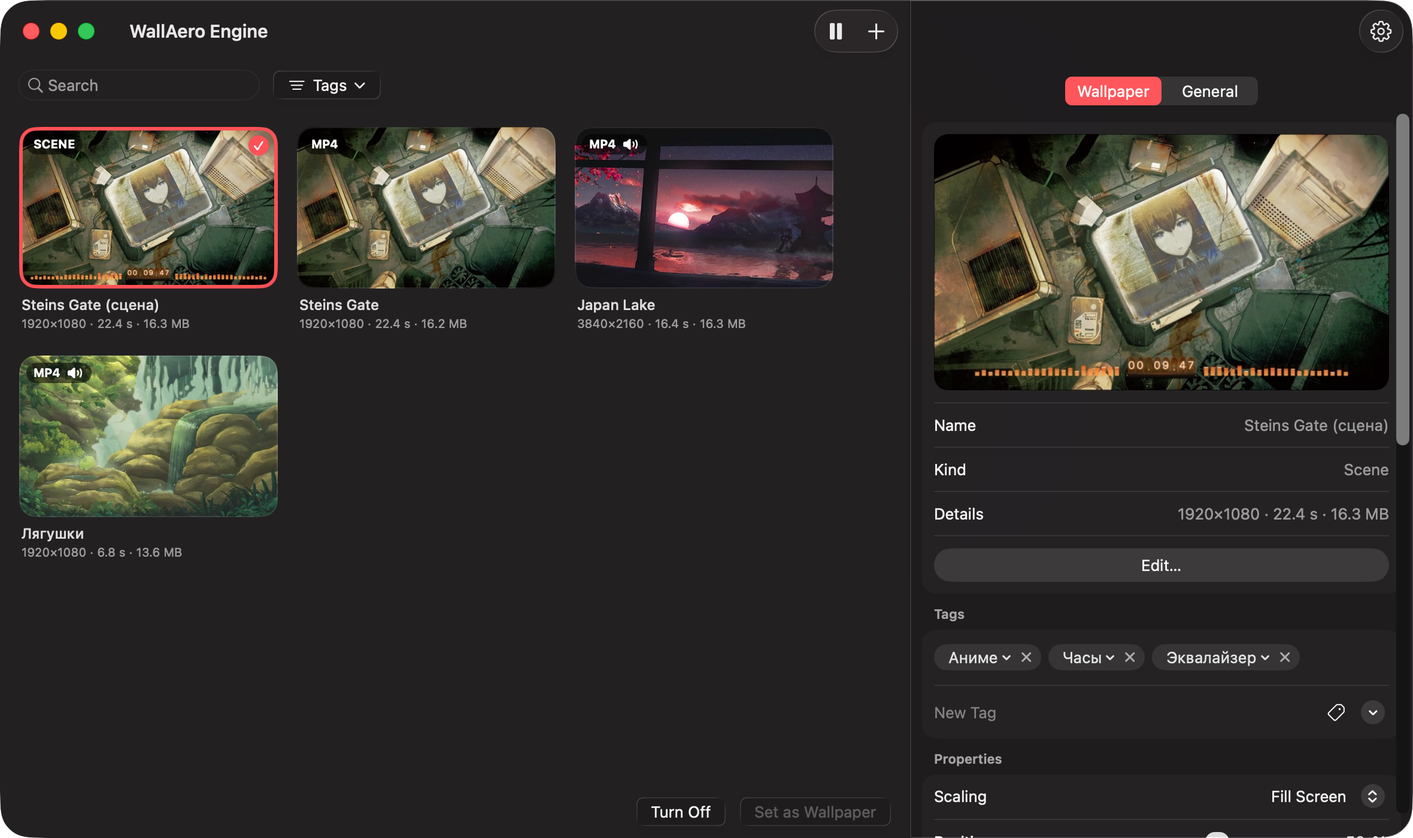
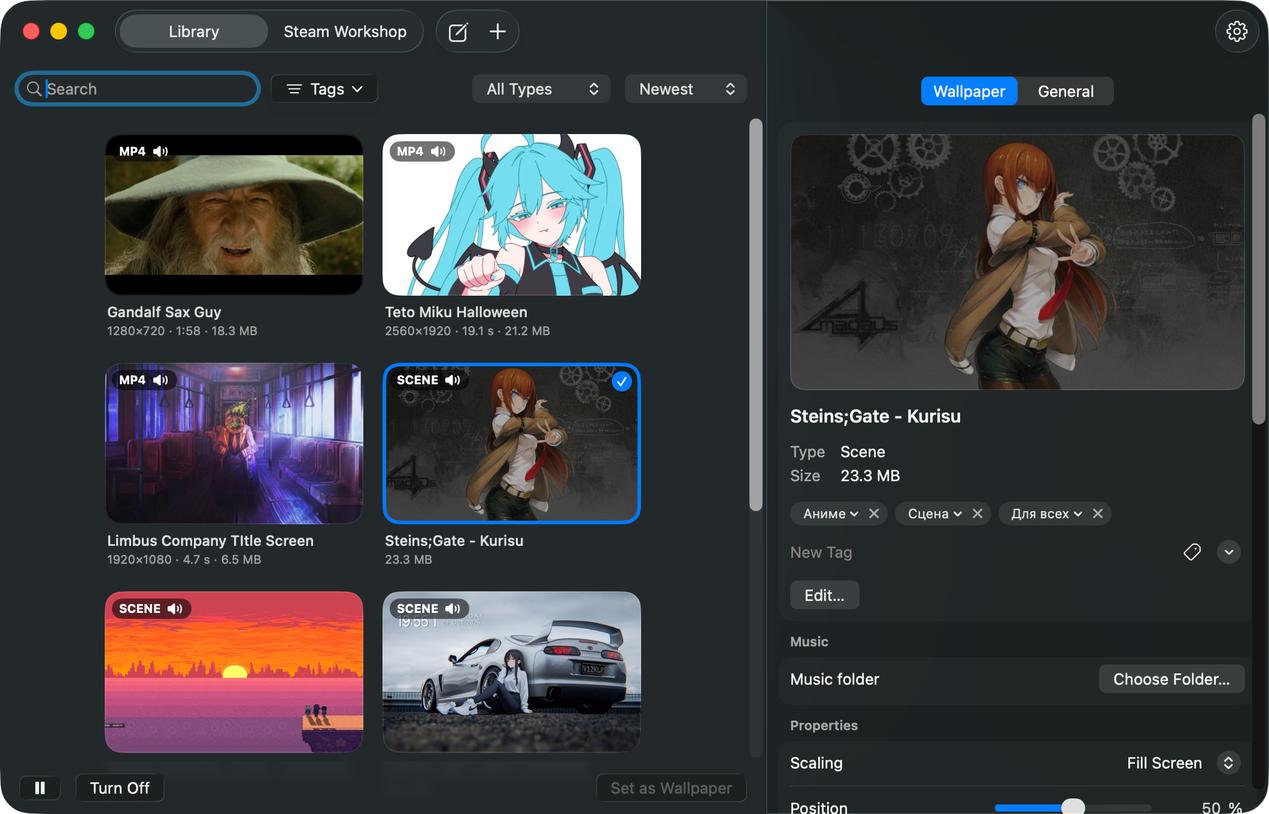
README shows the interface as macOS 26 draws it
- Screenshots of the library, the settings and the scene editor taken anew on macOS 26, in English and Russian; a new one of the Steam Workshop
- The window as it is now: Library and Steam Workshop at the top, the type and order filters, the bar for the desktop at the bottom, the wallpaper's settings in their new order
- The scene editor laid out as Blender is: its window, the Layout, Animation and Scripting tabs, the modes and tools, Camera View and Free View, the timeline
- The look follows the macOS it runs on, Liquid Glass on macOS 26
- scripts/screenshots.sh takes the Workshop's picture too

diff --git a/README.ru.md b/README.ru.md
@@ -56,6 +56,7 @@ xattr -dr com.apple.quarantine "/Applications/WallAero Engine.app"
 - **Поиск и теги:** находите обои по названию, давайте им свои теги, раскладывайте теги по категориям и отмечайте, какие обои показывать.
 - **Настройки у каждых обоев:** масштаб (заполнить / вписать / растянуть), какая часть кадра остаётся видна, когда при заполнении он обрезается, скорость и музыка. У сцены к ним добавляются настройки, которые вынес её автор.
 - **Настройки приложения:** звук и громкость, запуск при входе в систему, обои на экране блокировки (кадр, который был на экране в момент блокировки; в Mission Control виден неподвижный кадр обоев).
+- **Вид вашей macOS:** приложение собрано из системных элементов управления, поэтому в macOS 26 Tahoe оно выглядит как приложения Apple — с Liquid Glass, а в прежних версиях — так, как выглядят они там. Цвет акцента и светлое или тёмное оформление меняются вместе с системой. Скриншоты здесь сняты в macOS 26.
 - **Язык интерфейса** — русский или английский, выбирается по языку системы. Для остальных языков включается английский. Только для WallAero Engine язык можно сменить в «Системные настройки» → «Основные» → «Язык и регион» → «Приложения».
 
 ## Сборка из исходников
@@ -81,11 +82,19 @@ scripts/screenshots.sh        # переснять скриншоты для REA
 2. Перетащите в окно файлы или папки либо нажмите «+» на панели инструментов.
 3. Двойной щелчок по обоям (или «Установить как обои») — и они на рабочем столе.
 
-Над обоями находятся поле поиска и кнопка «Теги». Поиск идёт по названиям и тегам; ⌘F ставит курсор в поле. Кнопка «Теги» открывает список тегов библиотеки с флажками, под названиями их категорий. Отметьте теги одной категории — останутся обои, у которых есть любой из них; отметьте теги из нескольких категорий — обоям нужен хотя бы один из каждой.
+Вверху окна «Библиотека» и «Мастерская Steam» переключают между вашими обоями и мастерской; рядом кнопка с карандашом создаёт новую сцену, а «+» добавляет файлы. Нижняя панель — про рабочий стол: пауза, «Выключить» и «Установить как обои», а если дисплеев несколько — ещё и выбор дисплея, к которому они относятся.
+
+Над обоями находятся поле поиска, кнопка «Теги», выбор типа («Все типы», «Сцены», «Видео», «Веб-страницы» или «Картинки») и порядка («Новые», «Старые» или «По названию»). Поиск идёт по названиям и тегам; ⌘F ставит курсор в поле. Кнопка «Теги» открывает список тегов библиотеки с флажками, под названиями их категорий. Отметьте теги одной категории — останутся обои, у которых есть любой из них; отметьте теги из нескольких категорий — обоям нужен хотя бы один из каждой.
 
 Теги обоям задаются в их настройках, в разделе «Теги»: введите тег и нажмите Return или выберите один из тех, что уже есть у других обоев. Нажмите на тег там же, чтобы отнести его к категории или создать новую; категория закрепляется за тегом на всех обоях. Теги есть и в контекстном меню обоев.
 
-Настройки находятся сбоку в том же окне; кнопка с шестерёнкой скрывает и показывает их, а ⌘, открывает настройки приложения. В них две вкладки. «Обои» — про обои, выбранные в библиотеке: превью, кнопка, которая открывает их в редакторе, масштаб, положение кадра, скорость и [переменные](#сцены) сцены. «Общие» — настройки самого приложения. Остальное доступно из иконки в строке меню. При закрытом окне приложение не занимает место в Dock.
+Настройки находятся сбоку в том же окне; кнопка с шестерёнкой скрывает и показывает их, а ⌘, открывает настройки приложения. В них две вкладки. «Обои» — про обои, выбранные в библиотеке: большое живое превью, название, тип и размер, теги, кнопка «Редактировать…», которая открывает их в редакторе, [музыка](#музыка), масштаб, положение кадра, скорость и [настройки](#сцены) сцены. «Общие» — настройки самого приложения: воспроизведение, энергосбережение, экран блокировки и [курсор](#курсоры). Остальное доступно из иконки в строке меню. При закрытом окне приложение не занимает место в Dock.
+
+<p align="center">
+  <img src="docs/screenshots/ru/workshop.png" width="900" alt="Раздел «Мастерская Steam» в окне WallAero Engine: обои из мастерской и сбоку выбранные, с кнопкой «Скачать»">
+</p>
+
+«Мастерская Steam» показывает мастерскую Wallpaper Engine в том же окне и устроена так же, как библиотека: поиск, теги, тип и порядок («Популярные за неделю», «Новые» или «Больше всего подписок»). Нажмите на обои — сбоку откроются их живое превью, автор, рейтинг, размер и теги; «Скачать» добавляет их в библиотеку, а на плитке видно, сколько осталось, — нажмите на кольцо, чтобы остановить. «Войти в Steam…» внизу спрашивает аккаунт, через который идут скачивания.
 
 ## Музыка
 
@@ -104,10 +113,15 @@ scripts/screenshots.sh        # переснять скриншоты для REA
 ## Сцены
 
 <p align="center">
-  <img src="docs/screenshots/ru/editor.png" width="900" alt="Редактор сцен WallAero Engine: объекты сцены, предпросмотр и свойства выбранного объекта">
+  <img src="docs/screenshots/ru/editor.png" width="900" alt="Редактор сцен WallAero Engine: вкладки Layout, Animation и Scripting, сцена с инструментами и шкалой времени, справа слои и свойства выбранного слоя">
 </p>
 
-Сцена — это обои, устроенные так же, как сцены Wallpaper Engine, а редактор работает как редактор Wallpaper Engine, только в духе приложений для Mac. «Файл» → «Новая сцена» (⌘N) создаёт пустую сцену размером с экран; «Редактировать как сцену…» в настройках видео или картинки создаёт сцену с ними в качестве фона. Добавленная сцена Wallpaper Engine открывается в редакторе как есть.
+Сцена — это обои, устроенные так же, как сцены Wallpaper Engine. Редактор умеет то же, что редактор Wallpaper Engine, а устроен как Blender, только в духе приложений для Mac. «Файл» → «Новая сцена» (⌘N) или кнопка с карандашом на панели инструментов создаёт пустую сцену размером с экран; «Редактировать как сцену…» в настройках видео или картинки создаёт сцену с ними в качестве фона. Добавленная сцена Wallpaper Engine открывается в редакторе как есть — кнопкой «Редактировать…» в её настройках.
+
+- **Окно:** посередине сцена, справа её слои с полем «Найти слой» над ними, под списком — свойства выбранного, по вкладкам сбоку. Отмена, повтор и меню экспорта — в заголовке окна.
+- **Рабочие области:** вкладки Layout, Animation и Scripting, как в Blender. Layout — чтобы расставлять объекты, Animation добавляет под сценой ключи и их кривые, Scripting открывает рядом со сценой её скрипты.
+- **Режимы и инструменты:** меню режима (Tab — войти и выйти) переключает «Режим объекта», «Режим сетки», «Режим рига», «Рисование весов», «Режим позы» и «Рисование маски»; у каждого свои инструменты слева от сцены — в режиме объекта это выделение, перемещение, поворот и масштаб. За ним идут меню «Вид», «Выделение», «Добавить» и «Объект».
+- **Виды:** «Вид из камеры» показывает сцену такой, какой она будет на рабочем столе; в «Свободном виде» по ней можно двигаться — в плоскости, если включено 2D, или в глубину, если выключено. Шкала времени под сценой проигрывает её и переходит к любому кадру.
 
 - **Объекты:** картинки, видео, надписи, заливки, частицы, звуки, составные слои и группы. В списке они идут спереди назад, вложенные — под тем, во что вложены. Объект выбирается в списке или прямо в предпросмотре; его можно тянуть, растягивать за углы и поворачивать за круглую ручку. Справа — его свойства: положение, масштаб, поворот, глубина параллакса, непрозрачность, цвет, режим наложения и то, что есть у объектов этого типа.
 - **Эффекты:** «Добавить эффект…» накладывает на картинку или надпись один из шестнадцати эффектов приложения — оттенок, цветокоррекцию, размытие, тряску, покачивание, рябь и волны, блик, плёночное зерно и другие. Каждый можно выключить, настроить, переставить или убрать.

diff --git a/README.md b/README.md
@@ -56,6 +56,7 @@ xattr -dr com.apple.quarantine "/Applications/WallAero Engine.app"
 - **Search and tags:** find a wallpaper by its name, give wallpapers tags of your own, sort the tags into categories and tick the ones the library should show.
 - **Settings of every wallpaper:** scaling (fill / fit / stretch), which part stays in view when filling crops the picture, speed and music. A scene adds the settings its author put up for changing.
 - **Settings of the app:** sound and volume, open at login, and the wallpaper on the lock screen (the frame it showed when the screen locked; Mission Control shows a still of it).
+- **The look of your macOS:** the app is drawn by the system's own controls, so on macOS 26 Tahoe it wears Liquid Glass like Apple's apps, and on earlier versions their look. It follows the Mac's accent color and light or dark appearance as they change. The screenshots here are from macOS 26.
 - **Interface language:** English or Russian, following the system language; any other language gets English. To change it for WallAero Engine alone, go to System Settings → General → Language & Region → Applications.
 
 ## Building from source
@@ -81,11 +82,19 @@ scripts/screenshots.sh        # retake the README screenshots in both languages 
 2. Drag files or folders into the window, or click + in the toolbar.
 3. Double-click a wallpaper (or click Set as Wallpaper), and it is on your desktop.
 
-Above the wallpapers there is a search field and the Tags button. The search looks in names and tags; ⌘F puts the cursor into it. Tags drops down the library's tags, each with a checkbox, under the names of their categories. Tick tags of one category and the wallpapers that have any of them stay; tick tags of several categories and a wallpaper needs one from each.
+At the top of the window, Library and Steam Workshop switch between your wallpapers and the Workshop; next to them, the pencil button makes a new scene and + adds files. The bar at the bottom is about the desktop: pause, Turn Off and Set as Wallpaper, and, with several displays, the display they act on.
+
+Above the wallpapers there is a search field, the Tags button, the type to show (All Types, Scenes, Videos, Web Pages or Pictures) and the order (Newest, Oldest or By Name). The search looks in names and tags; ⌘F puts the cursor into it. Tags drops down the library's tags, each with a checkbox, under the names of their categories. Tick tags of one category and the wallpapers that have any of them stay; tick tags of several categories and a wallpaper needs one from each.
 
 A wallpaper gets its tags in its settings, under Tags: type one and press Return, or pick one other wallpapers already have. Click a tag there to put it into a category or to make a new one; the category goes with the tag on every wallpaper. Tags are in a wallpaper's context menu as well.
 
-The settings are at the side of the same window; the gear button hides and shows them, and ⌘, opens the app's own. They have two tabs. Wallpaper is about the wallpaper selected in the library: its preview, the button that opens it in the editor, its scaling, position and speed, and the [variables](#scenes) of a scene. General holds the app's own settings. Everything else is in the menu bar icon. While its windows are closed, the app takes no space in the Dock.
+The settings are at the side of the same window; the gear button hides and shows them, and ⌘, opens the app's own. They have two tabs. Wallpaper is about the wallpaper selected in the library: a large moving preview, its name, type and size, its tags, Edit… that opens it in the editor, its [music](#music), its scaling, position and speed, and the [settings](#scenes) of a scene. General holds the app's own settings: playback, energy, the lock screen and the [cursor](#cursors). Everything else is in the menu bar icon. While its windows are closed, the app takes no space in the Dock.
+
+<p align="center">
+  <img src="docs/screenshots/en/workshop.png" width="900" alt="The Steam Workshop section of the WallAero Engine window: the Workshop's wallpapers, and the selected one at the side with Download">
+</p>
+
+Steam Workshop shows Wallpaper Engine's Workshop in the same window, laid out as the library: a search field, tags, the type and the order (Popular This Week, Newest or Most Subscribed). Click a wallpaper and its moving preview, author, rating, size and tags open at the side; Download brings it into the library, and its tile shows the progress until it is there — click the ring to stop. Sign In to Steam… at the bottom asks for the account the downloads go through.
 
 ## Music
 
@@ -104,11 +113,15 @@ Music is set wallpaper by wallpaper. Select a wallpaper in the library, and in i
 ## Scenes
 
 <p align="center">
-  <img src="docs/screenshots/en/editor.png" width="900" alt="The WallAero Engine scene editor: the scene's objects, the preview and the selected object's properties">
+  <img src="docs/screenshots/en/editor.png" width="900" alt="The WallAero Engine scene editor: the Layout, Animation and Scripting tabs, the scene with its tools and timeline, and on the right the layers and the selected layer's properties">
 </p>
 
-A scene is a wallpaper made the way Wallpaper Engine makes its scenes, and the editor works like Wallpaper Engine's own, in the manner of a Mac app. File → New Scene (⌘N) makes an empty one at the size of your display; Edit as Scene… in the settings of a video or a picture makes one with it as the background. A Wallpaper Engine scene you add opens in the editor as it is.
+A scene is a wallpaper made the way Wallpaper Engine makes its scenes, and the editor does what Wallpaper Engine's own does, laid out the way Blender is, in the manner of a Mac app. File → New Scene (⌘N) or the pencil button in the toolbar makes an empty one at the size of your display; Edit as Scene… in the settings of a video or a picture makes one with it as the background. A Wallpaper Engine scene you add opens in the editor as it is, with Edit… in its settings.
 
+- **The window:** the scene in the middle, its layers on the right with Find a Layer above them, and the selected one's properties under the list, in tabs down their side. Undo, redo and the export menu are in the title bar.
+- **Workspaces:** the tabs Layout, Animation and Scripting, as in Blender. Layout is for placing things; Animation adds the keys and their curves under the scene; Scripting opens the scene's scripts beside it.
+- **Modes and tools:** the mode menu (Tab goes in and out) switches between Object Mode, Mesh Mode, Rig Mode, Weight Paint, Pose Mode and Mask Paint, each with its own tools down the left of the scene: select, move, rotate and scale in Object Mode. View, Select, Add and Object menus follow it.
+- **Views:** Camera View shows the scene as the desktop will; Free View lets you move about it, flat with 2D on or in depth with it off. The timeline under the scene plays the scene and goes to any frame.
 - **Objects:** pictures, videos, texts, solid colors, particles, sounds, composition layers and groups, listed front first, each with what hangs on it under it. Select one in the list or in the preview; drag it, pull its corners, turn it by the round handle. Its properties — position, scale, rotation, parallax depth, opacity, color, blend mode, and what belongs to its kind — are on the right.
 - **Effects:** Add Effect… puts one of the app's sixteen effects on a picture or a text — tint, color adjustment, blur, shake, sway, water ripple and waves, shine, film grain and more. Each can be switched off, set, moved or removed.
 - **Particles:** snow, rain, fireflies, dust, embers and bubbles to start from. Edit Particle System… changes where particles are made, what each starts with, what happens to it over time and how it is drawn.
